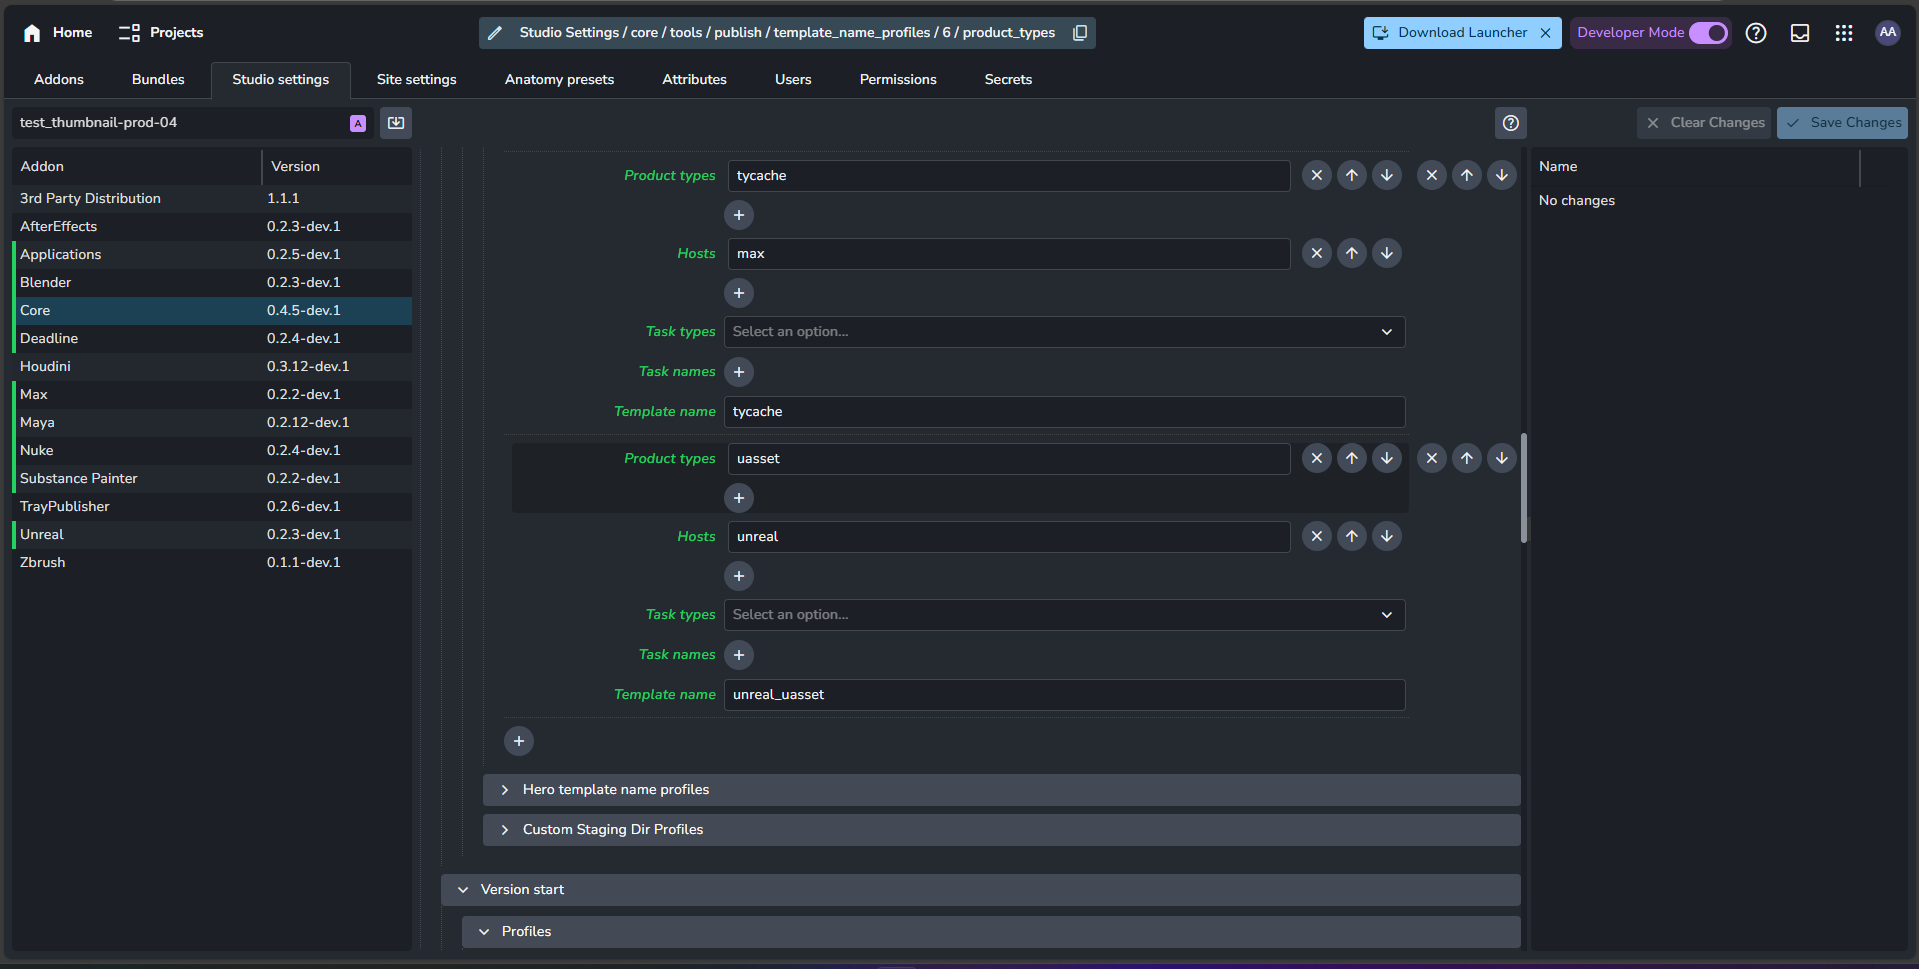
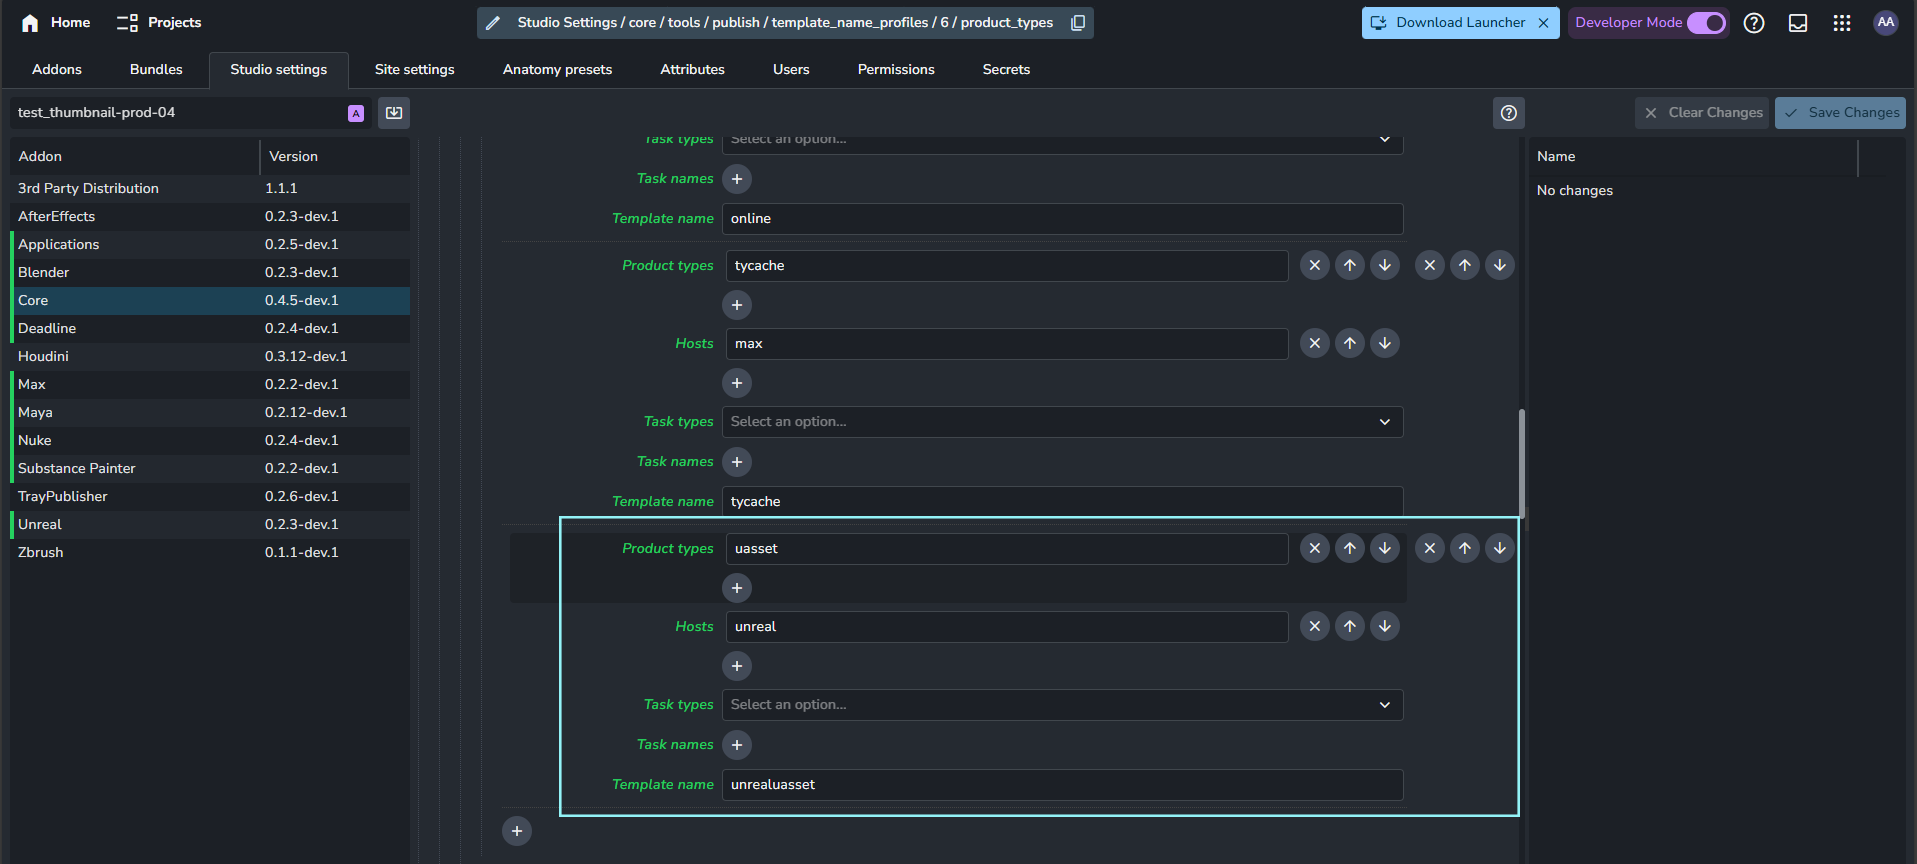
updated more concise info

diff --git a/website/docs/addon_unreal_admin.md b/website/docs/addon_unreal_admin.md
@@ -119,7 +119,7 @@ For Unreal Engine versions `>= 5.4`, use `pyside6`. For earlier versions, use `p
 ## Template Setting for UAsset Publish
 ### Set up the UAsset publish template in project
 You need to set up the template for UAsset product type to ensure they are published without corruption of the file(s).
-To set up the template for UAsset publish, you need to go to **Project Settings**(framed by the red square) and **Anatomy**. Then you need to select your project and create custom publish template for UAsset(frame by the blue square).
+To set up the template for UAsset publish, you need to go to **Project Settings**(framed by the red square) and **Anatomy**. Then you need to select your project and create custom publish template for UAsset(frame by the light blue-green square).
 
 ![Unreal AYON UAsset Template Project Setting](assets/unreal_uasset_template_settings_project_setting.png)
 
@@ -139,6 +139,6 @@ Once you finished to add the template, you need to click **Save Changes**.
 ## Activate the publish template in AYON
 After setting up the template, you need to access **Studio Settings** and go to `ayon+settings://core/tools/publish/template_name_profiles`.
 
-By adding the UAsset custom publish template name(i.e `unrealuasset`) with UAsset as product type and Unreal as host, the template would be used as the file structure for the published assets.
+By adding the UAsset custom publish template name(i.e `unrealuasset`) with UAsset as product type and Unreal as host, the template would be used as the file structure for the published assets.(Framed by the light blue-green square)
 
 ![Unreal AYON UAsset Template Profiles](assets/unreal_uasset_template_settings_ayon_core.png)
